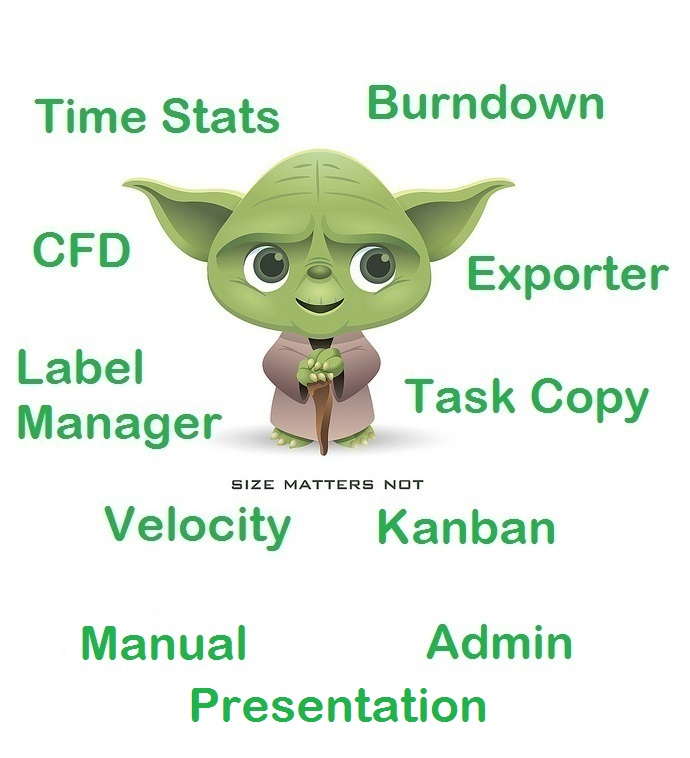
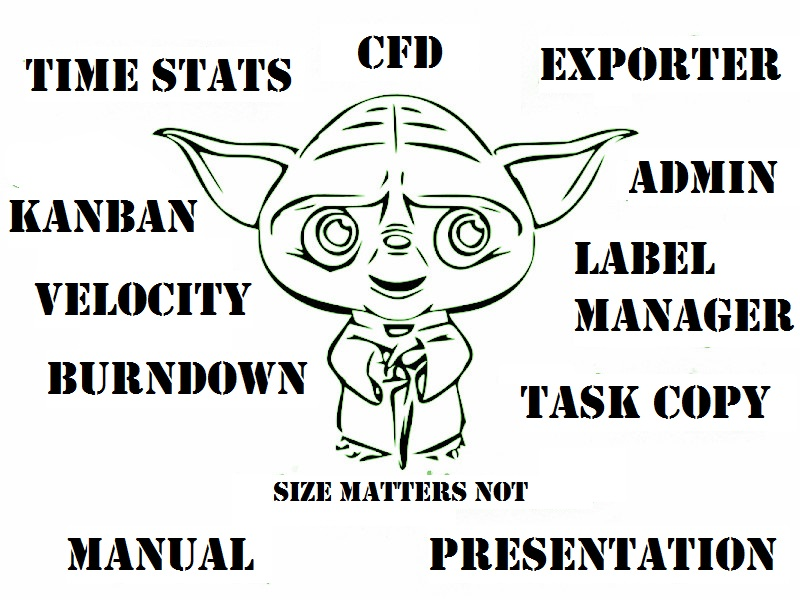
Change landing page graphics

diff --git a/docs/index.html b/docs/index.html
@@ -33,17 +33,18 @@ OR IN CONNECTION WITH THE SOFTWARE OR THE USE OR OTHER DEALINGS IN THE SOFTWARE.
 <body>
 <img style="margin:0px auto;display:block" src="./yoda-size-matters-not.jpg" alt="" usemap="#Map" />
 <map name="Map" id="Map">
-    <area alt="" title="Burndown" href="yoda-burndown.html" shape="rect" coords="364,76,610,134" />
-    <area alt="" title="Time Stats" href="yoda-time-stats.html" shape="rect" coords="29,91,283,141" />
-    <area alt="" title="CFD" href="yoda-cfd.html" shape="rect" coords="30,224,134,272" />
-    <area alt="" title="Label Manager" href="yoda-label-manager.html" shape="rect" coords="13,340,223,461" />
-    <area alt="" title="Velocity" href="yoda-velocity.html" shape="rect" coords="90,493,309,557" />
-    <area alt="" title="Exporter" href="yoda-exporter.html" shape="rect" coords="462,249,670,308" />
-    <area alt="" title="Task Copy" href="yoda-copy-tasks.html" shape="rect" coords="402,370,650,433" />
-    <area alt="" title="Kanban" href="yoda-kanban.html" shape="rect" coords="367,499,585,562" />
-    <area alt="" title="Manual" href="MANUAL.html" shape="rect" coords="68,614,273,670" />
-    <area alt="" title="Token" href="yoda-admin.html" shape="rect" coords="404,606,591,692" />
-    <area alt="" title="Presentation" href="Yoda-Agile-Project-Management-with-GitHub.pdf" shape="rect" coords="176,682,500,730" />
+
+    <area alt="" title="Burndown" href="yoda-burndown.html" shape="rect" coords="41,353,306,401" />
+    <area alt="" title="Time Stats" href="yoda-time-stats.html" shape="rect" coords="18,40,281,112" />
+    <area alt="" title="CFD" href="yoda-cfd.html" shape="rect" coords="312,12,479,84" />
+    <area alt="" title="Label Manager" href="yoda-label-manager.html" shape="rect" coords="568,230,793,352" />
+    <area alt="" title="Velocity" href="yoda-velocity.html" shape="rect" coords="29,274,254,325" />
+    <area alt="" title="Exporter" href="yoda-exporter.html" shape="rect" coords="527,30,769,108" />
+    <area alt="" title="Task Copy" href="yoda-copy-tasks.html" shape="rect" coords="503,357,800,449" />
+    <area alt="" title="Kanban" href="yoda-kanban.html" shape="rect" coords="3,191,198,238" />
+    <area alt="" title="Manual" href="MANUAL.html" shape="rect" coords="90,524,281,595" />
+    <area alt="" title="Admin" href="yoda-admin.html" shape="rect" coords="612,152,784,220" />
+    <area alt="" title="Presentation" href="Yoda-Agile-Project-Management-with-GitHub.pdf" shape="rect" coords="416,522,785,591" />
 </map>
 
 </body>

diff --git a/docs/yoda-kanban.html b/docs/yoda-kanban.html
@@ -168,7 +168,7 @@ OR IN CONNECTION WITH THE SOFTWARE OR THE USE OR OTHER DEALINGS IN THE SOFTWARE.
 		
 		<div class="field">
 			<label>Columns</label>
-			<select id="columns" style="width: 450px" class="select2">
+			<select id="columns" style="width: 455px" class="select2">
 				<option selected>[Urgent]open:S1 - Urgent,[High]open:S2 - High,[Medium]open:S3 - Medium,[Low]open:S4 - Low,[Other]open:*,[Closed]closed:*</option>
 				<option>[Defect]open:T1 - Defect,[Enhancement]open:T2 - Enhancement,[Task]open:T3 - Task,[Other]open:*,[Closed]closed:*</option>
 				<option>[Bug]open:bug,[Enhancement]open:enhancement,[Question]open:question,[Other]open:*,[Closed]closed:*</option>

diff --git a/docs/yoda-kanban.js b/docs/yoda-kanban.js
@@ -746,3 +746,4 @@ function githubAuth() {
 }
 
 // --------------
+
